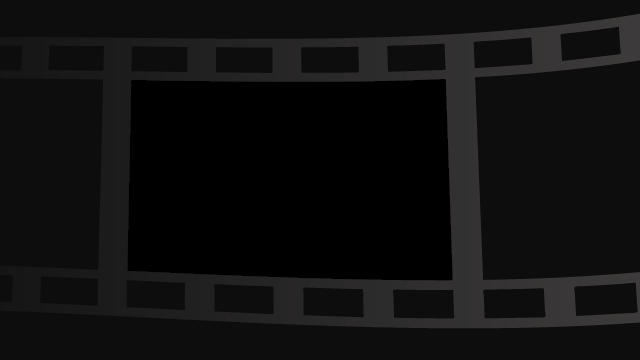
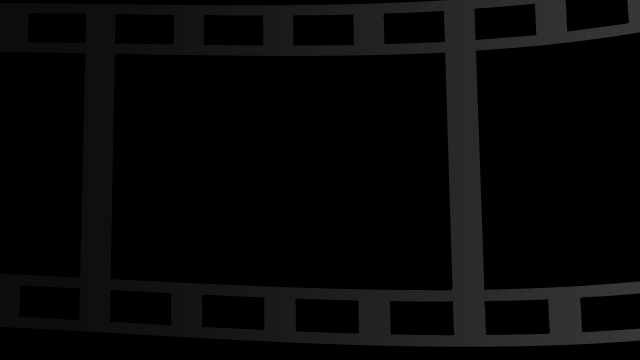
Updated better fitting background graphics (to the Video play view, that is.) - Also added some margin space for the video title.

diff --git a/code/qml/VideoStreamer/VideoPlayer/VideoPlayView.qml b/code/qml/VideoStreamer/VideoPlayer/VideoPlayView.qml
@@ -173,8 +173,7 @@ Item {
             top: parent.top
             topMargin: videoPlayView.isFullScreen ? 0 : visual.margins
             left: parent.left
-            leftMargin: videoPlayView.isFullScreen ?
-                            0 : (isPortrait ? 0 : visual.margins)
+            leftMargin: videoPlayView.isFullScreen ? 0 : visual.margins
             right: parent.right
         }
         height: videoPlayView.isFullScreen ?
